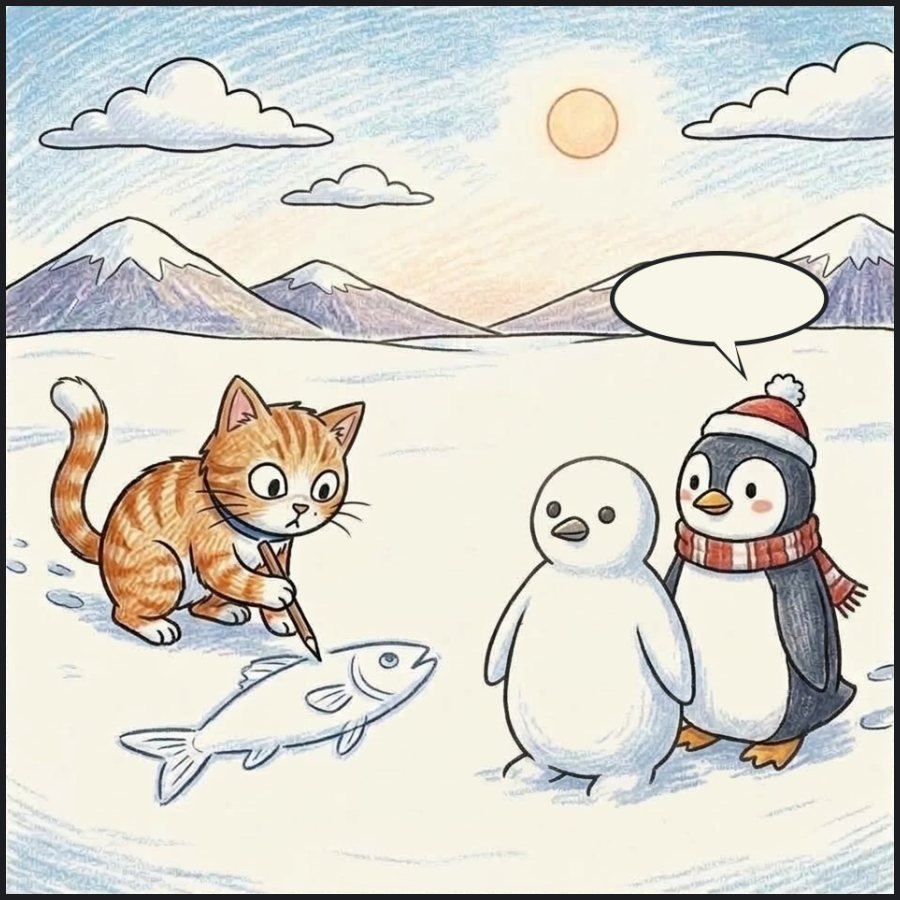
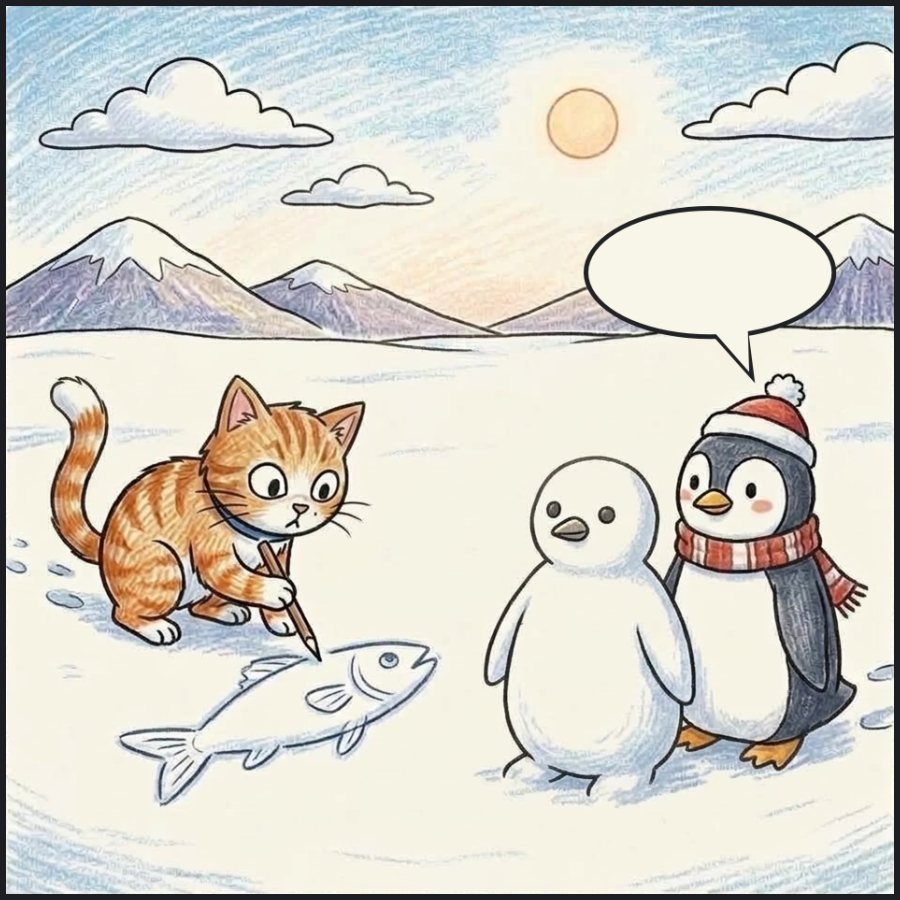
Episode 3: bigger bubbles and text, frame 5 chatter only
Claude-Session: https://claude.ai/code/session_01NreAqm5NtqDWekSoZfY2fL

Changed region(s): [[0.6222, 0.2178, 0.9333, 0.4356]]

diff --git a/ep3/index.html b/ep3/index.html
@@ -192,21 +192,21 @@ body.show-en .story{gap:2px}
     <div class="story"><p data-line="小林|堆了|一个|雪人|。" data-en="Xiao Lin built a snowman."></p><p data-line="他|把|雪人|做得|跟|自己|一模一样|！" data-en="He made the snowman look exactly like himself!"></p></div>
     <figure>
       <img src="sq1.jpg" alt="The penguin stands proudly next to a snowman that looks just like him, while the cat draws a fish in the snow" width="900" height="900">
-      <button class="bub" data-who="penguin" data-line="像|我|吗|？|像|我|吗|？" data-en="Does it look like me? Does it look like me?" data-show="像我吗？/像我吗？" style="left:68.5%;top:28.6%;width:22.8%;height:9.1%;font-size:3.5cqw;line-height:1.25"></button>
+      <button class="bub" data-who="penguin" data-line="像|我|吗|？|像|我|吗|？" data-en="Does it look like me? Does it look like me?" data-show="像我吗？/像我吗？" style="left:65.6%;top:23.6%;width:26.6%;height:13.5%;font-size:5.4cqw;line-height:1.25"></button>
     </figure>
   </section>
   <section class="panel">
     <div class="story"><p data-line="小懒猫|画完了|鱼|，|想|玩|了|。" data-en="Little Lazy Cat finished drawing his fish and wanted to play."></p><p data-line="小林|正在|给|雪人|戴|帽子|和|围巾|，" data-en="Xiao Lin was putting a hat and scarf on the snowman,"></p><p data-line="小懒猫|就|向|他|扔|雪球|！" data-en="so Little Lazy Cat threw snowballs at him!"></p></div>
     <figure>
       <img src="sq2.jpg" alt="The cat grins and throws a snowball while the penguin puts a scarf on the snowman" width="900" height="900">
-      <button class="bub" data-who="cat" data-line="嘿嘿嘿|……" data-en="Hehehe…" data-show="嘿嘿嘿……" style="left:7.9%;top:31.1%;width:20.4%;height:8.7%;font-size:3.9cqw;line-height:1.25"></button>
+      <button class="bub" data-who="cat" data-line="嘿嘿嘿|……" data-en="Hehehe…" data-show="嘿嘿嘿……" style="left:6.6%;top:24.5%;width:26.6%;height:13.5%;font-size:5.2cqw;line-height:1.25"></button>
     </figure>
   </section>
   <section class="panel">
     <div class="story"><p data-line="小林|和|小懒猫|打起了|雪仗|。" data-en="Xiao Lin and Little Lazy Cat started a snowball fight."></p><p data-line="这时|，|小真|刚好|经过|。" data-en="Just then, Xiao Zhen happened to pass by."></p></div>
     <figure>
       <img src="sq3.jpg" alt="The orca greets the snowman while the cat and penguin throw snowballs in the background" width="900" height="900">
-      <button class="bub" data-who="orca" data-line="嗨|，|小林|！" data-en="Hi, Xiao Lin!" style="left:29.9%;top:35.4%;width:20.2%;height:8.5%;font-size:4.4cqw;line-height:1.25"></button>
+      <button class="bub" data-who="orca" data-line="嗨|，|小林|！" data-en="Hi, Xiao Lin!" data-show="嗨，/小林！" style="left:29.2%;top:35.0%;width:21.3%;height:9.3%;font-size:6.4cqw;line-height:1.25"></button>
     </figure>
   </section>
   <section class="panel">
@@ -220,7 +220,7 @@ body.show-en .story{gap:2px}
     <div class="story"><p data-line="小真|没|注意到|，" data-en="Xiao Zhen didn't notice"></p><p data-line="小林|和|小懒猫|走|回来|了|。" data-en="that Xiao Lin and Little Lazy Cat had come back."></p><p data-line="他们|看见|小真|在|跟|雪人|说话|，" data-en="They saw Xiao Zhen talking to the snowman,"></p><p data-line="都|看傻了|！" data-en="and they just stared!"></p></div>
     <figure>
       <img src="sq5.jpg" alt="The orca keeps chatting to the snowman while the penguin and cat stare in confusion" width="900" height="900">
-      <button class="bub" data-who="orca" data-line="叽里呱啦|……|叽里呱啦|……" data-en="Blah blah blah… blah blah blah…" data-show="叽里呱啦……/叽里呱啦……" style="left:38.9%;top:8.8%;width:53.7%;height:15.0%;font-size:5.2cqw;line-height:1.25"></button><button class="bub" data-who="orca" data-line="你|跟|雪人|一模一样|……" data-en="You look exactly like the snowman…" data-show="你跟雪人/一模一样……" style="left:59.3%;top:26.3%;width:36.0%;height:9.7%;font-size:4.1cqw;line-height:1.25"></button>
+      <button class="bub" data-who="orca" data-line="叽里呱啦|……|叽里呱啦|……" data-en="Blah blah blah… blah blah blah…" data-show="叽里呱啦……/叽里呱啦……" style="left:38.9%;top:8.6%;width:54.2%;height:15.2%;font-size:6.0cqw;line-height:1.25"></button><button class="bub" data-who="orca" data-line="叽里呱啦|……" data-en="Blah blah blah…" style="left:59.8%;top:26.3%;width:34.9%;height:9.7%;font-size:6.0cqw;line-height:1.25"></button>
     </figure>
   </section>
   <section class="panel">
